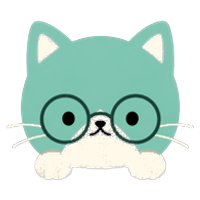
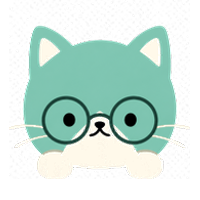
민트냥 그림 다시 만듦 — 가장자리 깨짐·크기·높이 정리
운영 보고: "민트냥 깨졌잖아. 흰색 부분 이상하고 사이즈도 크고."

원인은 8/31 정규화 작업에서 내가 만든 cat-mint-v3-c.png 자체였다. 알파를 곱하지 않은
채(non-premultiplied) 크기를 줄여서, 흰 주둥이 둘레와 안경테·수염이 점점이 깨지고 색이
번졌다. 원본(cat-mint-v3.png)은 멀쩡했다.

원본에서 다시 만들었다.
· 프리멀티플라이드 알파에서 축소한 뒤 되돌린다 — 가장자리 색 번짐이 생기지 않는다.
· 크기를 '머리 폭' 기준으로 맞췄다(159 → 154px). 눈에 보이는 크기는 전체 박스가 아니라
  머리가 좌우한다. 다른 다섯은 147~164px 이라 그 한가운데에 들어간다.
· 세로도 머리 중심(Y=100)으로 맞췄다. 예전엔 부드러운 그림자까지 포함해 정중앙을 잡는
  바람에 머리가 18px 처져 혼자 낮게 앉아 있었다.

이 파일은 젤리샵·커스텀샵·게임판이 모두 함께 쓰므로 세 곳이 한 번에 고쳐진다.

테스트 4건 신설(cat-assets) — 캔버스 규격, 머리 크기 편차, 머리 높이 편차, 좌우 정렬.
⚠ 가장자리 깨짐 자체를 잡는 검사는 넣지 못했다. 흰색-검정 인접 횟수·외톨이 픽셀 비율·
반투명 픽셀 비율 세 가지를 재봤는데 깨진 파일과 정상 파일이 구분되지 않았다(오히려
값이 겹쳤다). 처음에 넣었던 '깨짐' 검사는 깨진 파일에서도 통과해 아무것도 못 잡길래
지웠다 — 통과한다고 그림이 예쁘다는 뜻이 되면 안 된다. 자산을 새로 만들면 눈으로
확인해야 한다는 것을 파일 머리에 적어뒀다. 136/136 통과.

Claude-Session: https://claude.ai/code/session_01WX1HrtTJ51xwNvKBhDC2yy

diff --git a/index.html b/index.html
@@ -13756,7 +13756,7 @@ document.addEventListener('mouseup', () => {
 // 업데이트 내역 팝업
 const UPDATE_VERSION = 'v4.10';
 // 배포마다 이 숫자만 올리면 됨(클수록 최신). 새로고침 배너의 기준값이자 화면 표시 build 번호.
-const BUILD = 1788184800; // v4.26 — 젤리로 고양이 6종 전부 구매
+const BUILD = 1788185100; // v4.27 — 민트냥 그림 다시 만듦
 try { const _bt = document.getElementById('buildTag'); if (_bt) _bt.textContent = 'build #' + BUILD; } catch {}
 let lastVersionCheck = 0;
 let updateAvailable = false;
